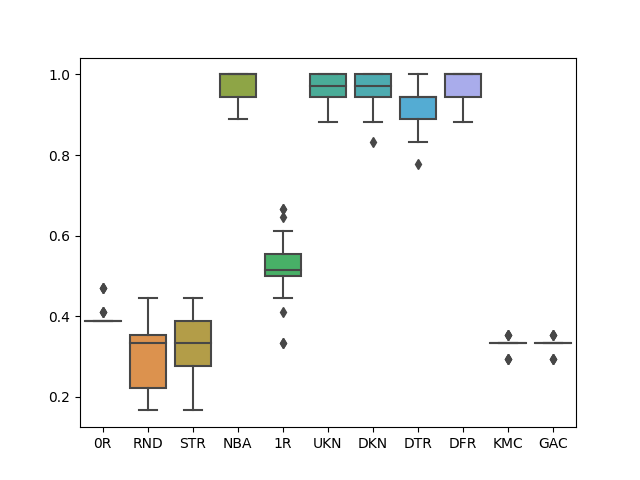
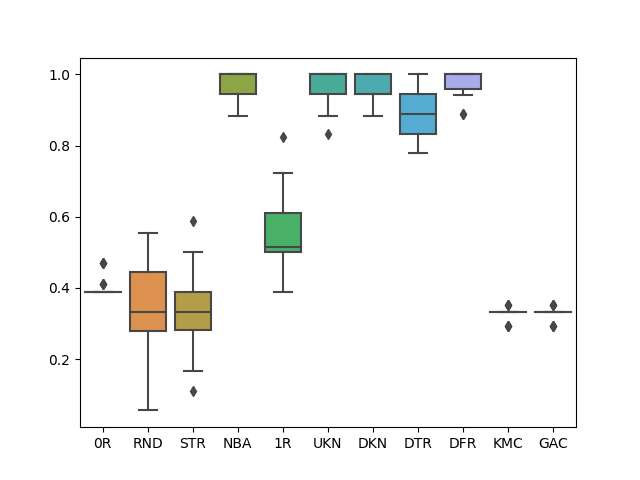
Trying to fix k-Centroids algorithms

diff --git a/main.py b/main.py
@@ -54,6 +54,7 @@ for estimator_name, estimator in first_estimators.items():
         print(estimator_name, dataset_name)
         print('Accuracy Mean:', mean, 'Accuracy Standard Deviation:', deviation)
         print('Accuracy Trust Interval (95%%): (', inf, ',', sup, ')')
+    print()
 
 # Estimators to be passed in the second stage and their hyperparameters grid:
 knn = (KNeighborsClassifier(weights = 'uniform'), {'estimator__n_neighbors': [1, 3, 5, 7]})
@@ -78,6 +79,7 @@ for estimator_name, estimator_data in second_estimators.items():
         print(estimator_name, dataset_name)
         print('Accuracy Mean:', mean, 'Accuracy Standard Deviation:', deviation)
         print('Accuracy Trust Interval (95%%): (', inf, ',', sup, ')')
+    print()
 
 for dataset_name, dataset in scores.items():
     # Plotting the boxplot

diff --git a/kcentroids.py b/kcentroids.py
@@ -33,6 +33,6 @@ class KCentroidsBaseEstimator(BaseEstimator):
         for point in X:
             distances = dict({})
             for c in self.__classes:
-                distances[c] = min([norm(centroid - point) for centroid in self.__centroids[c]])
+                distances[c] = min([norm(point - centroid) for centroid in self.__centroids[c]])
             Y.append(min(distances))
         return Y
